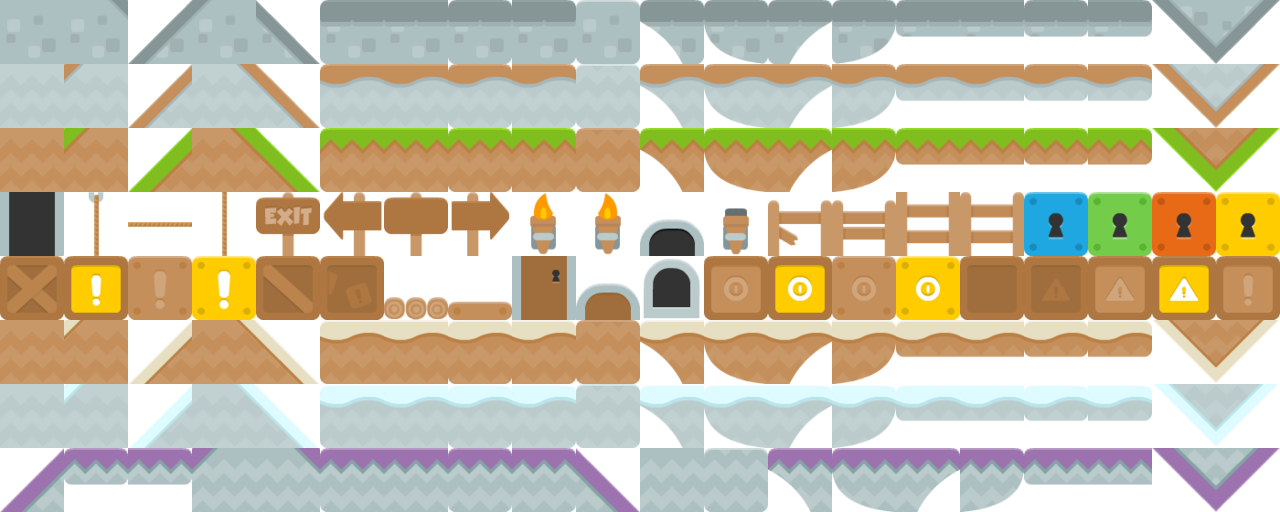
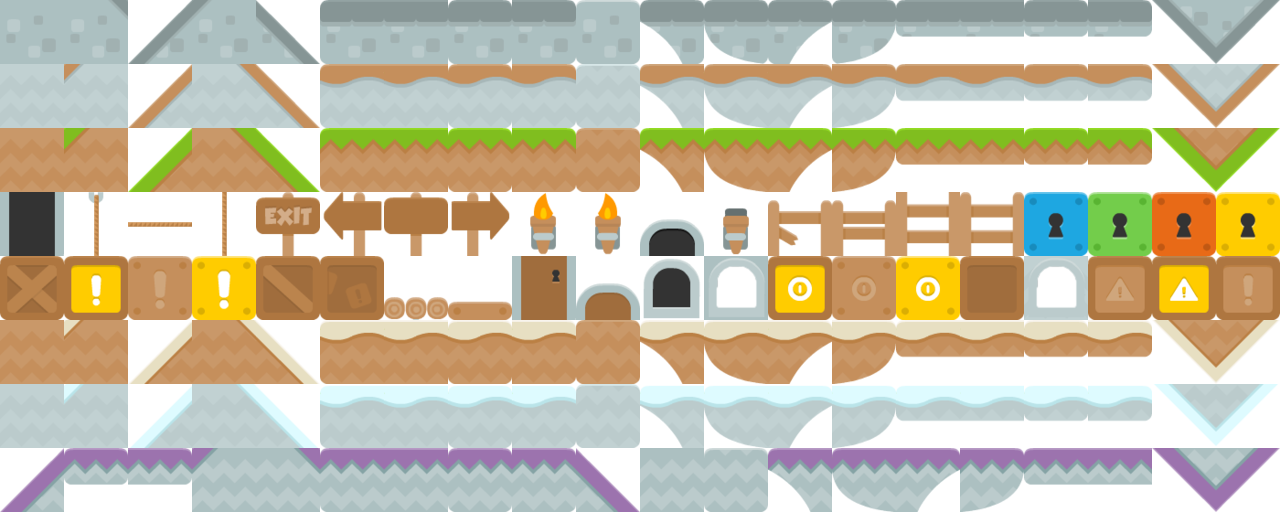
added windows, added killboxes, fixed levels, added level selection, and improved player input

Changed region(s): [[0.7812, 0.5, 0.875, 0.625], [0.5312, 0.5, 0.625, 0.625]]

diff --git a/game-client/src/playerstate.cpp b/game-client/src/playerstate.cpp
@@ -60,7 +60,7 @@ PlayerState IdleState::getType() {
     return PlayerState::Idle;
 }
 void IdleState::update( Player* player, double dt ) {
-    if ( player->direction.x != 0 && reset ) {
+    if ( player->direction.x != 0 ) {
         walkTimer += dt;
     } else if (player->direction.x == 0 ) {
         walkTimer = 0;
@@ -73,7 +73,7 @@ void IdleState::update( Player* player, double dt ) {
         player->sprite->play(player->idleAnimation);
     }
     if ( walkTimer > player->walkLength ) {
-        if ( fabs(player->direction.x) > 0.9 ) {
+        if ( fabs(player->direction.x) > 0.9 && reset ) {
             if ( player->direction.x > 0 ) {
                 player->switchState( new DashingState(player,1) );
             } else {
@@ -369,7 +369,7 @@ void RunningState::update( Player* player, double dt ) {
     } else if ( player->direction.x > 0.9 && dashingDirection == -1 && crossedNeutral ) {
         player->switchState( new TurningState(player, 1) );
     }
-    if ( (player->direction.x == 0 && player->direction.y == 0) || glm::length(player->direction) < 0.5 ) {
+    if ( (player->direction.x == 0 && player->direction.y == 0) || glm::length(player->direction) < 0.7 ) {
         crossedNeutral = true;
         walkTimer += dt;
     } else {
@@ -487,8 +487,9 @@ TurningState::TurningState( Player* player, float direction ) {
 void TurningState::init() {
     player->sprite->play( player->slideAnimation );
     player->sprite->setFrameTime(sf::seconds(0.16));
-    float d = turnDirection*player->playerSpeed*player->dashingMultiplier;
-    tweenX = tweeny::from(-d).to(0).during(player->turnAroundTime*1000).via(tweeny::easing::quadraticOut);
+    glm::vec2 vel = -toGLM(player->myBody->GetLinearVelocity());
+    tweenX = tweeny::from(vel.x).to(0).during(player->turnAroundTime*1000).via(tweeny::easing::quadraticOut);
+    tweenY = tweeny::from(vel.y).to(0).during(player->turnAroundTime*1000).via(tweeny::easing::quadraticOut);
     turnTimer = 0;
 }
 
@@ -502,7 +503,7 @@ PlayerState TurningState::getType() {
 void TurningState::update( Player* player, double dt ) {
     // If the code reaches here you should never play smash again probably
     glm::vec2 vel = toGLM(player->myBody->GetLinearVelocity());
-    player->myBody->SetLinearVelocity( b2Vec2(tweenX.step((int)(dt*1000)),vel.y) );
+    player->myBody->SetLinearVelocity( b2Vec2(tweenX.step((int)(dt*1000)),tweenY.step((int)(dt*1000))) );
     turnTimer += dt;
     if ( turnTimer > player->turnAroundTime ) {
         player->switchState( new DashingState(player,turnDirection) );

diff --git a/game-client/src/player.cpp b/game-client/src/player.cpp
@@ -3,6 +3,7 @@
 Player::Player( std::string resource, glm::vec2 pos) {
     resetToNeutral = false;
     wallJumpDirection = 0;
+    wallJumpLength = 5.f/60.f;
     hitLength = 0.2f;
     successfulTech = false;
     wallJumpTimer = 0;
@@ -11,12 +12,13 @@ Player::Player( std::string resource, glm::vec2 pos) {
     frickedUpLength = 40.f/60.f;
     jumpHelpAmount = 2.f;
     damageBoostLength = 0.25;
+    dead = false;
     damageBoostTimer = 0;
     shockLength = 0.4;
     deadZone = 0.25; // in percentage
     walkLength = 0.06; // Time in seconds to wait for stick to smash, before walking
     jumpSquatLength = 6.f/60.f; // Time in seconds to wait for button release for a short hop.
-    dashLength = 0.30; // in seconds
+    dashLength = 0.20; // in seconds
     playerWidth = .35; // in meters
     playerHeight = .35; // in meters
     airDodgeVelocity = 19;
@@ -339,12 +341,12 @@ void Player::update( double dt ) {
     if (!onGround && wallJumpTimer <= 0 && resetToNeutral ) {
         if ( direction.x > 0.9 ) {
             resetToNeutral = false;
-            wallJumpTimer = techLength;
+            wallJumpTimer = wallJumpLength;
             wallJumpDirection = 1;
         } else if ( direction.x < -0.9 ) {
             wallJumpDirection = -1;
             resetToNeutral = false;
-            wallJumpTimer = techLength;
+            wallJumpTimer = wallJumpLength;
         }
 
     }
@@ -354,7 +356,7 @@ void Player::update( double dt ) {
     if ( wallJumpTimer <= 0 ) {
         successfulWallJump = false;
     }
-    if ( ((touchingWallLeft && wallJumpDirection == 1) || (touchingWallRight && wallJumpDirection == -1)) && wallJumpTimer > 0 ) {
+    if ( ((canWallJumpRight && wallJumpDirection == 1) || (canWallJumpLeft && wallJumpDirection == -1)) && wallJumpTimer > 0 ) {
         wallJumpTimer = 0;
         successfulWallJump = true;
     }
@@ -412,6 +414,10 @@ void Player::update( double dt ) {
             world->addEntity(new Respawn(glm::vec2(spawnLoc.x, spawnLoc.y)), World::Layer::Midground);
             return;
         }
+    }
+    if ( dead ) {
+        world->addEntity(new Respawn(glm::vec2(spawnLoc.x, spawnLoc.y)), World::Layer::Midground);
+        return;
     }
     if ( sf::Joystick::isConnected( controllerID ) && controllerFound ) {
         if ( sf::Joystick::isButtonPressed(controllerID,2) || sf::Joystick::isButtonPressed(controllerID,3) ) {

diff --git a/game-client/src/killbox.cpp b/game-client/src/killbox.cpp
@@ -1,0 +1,55 @@
+#include "killbox.h"
+
+KillBox::KillBox(tmx::Object& obj){
+    pos = glm::vec2(obj.getPosition().x, obj.getPosition().y);
+
+    tmx::FloatRect size = obj.getAABB();
+    size.width = size.width / 64;
+    size.height = size.height / 64;
+    size.left = size.left / 64;
+    size.top = size.top / 64;
+
+    b2Vec2 topLeft(size.left, size.top);
+    b2Vec2 topRight(size.left + size.width, size.top);
+    b2Vec2 bottomRight(size.left + size.width, size.top + size.height);
+    b2Vec2 bottomLeft(size.left, size.top + size.height);
+
+    b2BodyDef boxDef;
+    boxDef.type = b2_staticBody;
+    boxDef.angle = 0;
+
+    b2PolygonShape shape;
+    b2Vec2 vertices[] = {
+        topLeft,
+        topRight,
+        bottomRight,
+        bottomLeft
+    };
+    shape.Set(vertices, 4);
+    b2FixtureDef fixDef;
+    fixDef.shape = &shape;
+    fixDef.density = 0;
+    fixDef.restitution = 0;
+    boxDef.position.Set(0,0);
+    body = physicalWorld->get().CreateBody( &boxDef );
+    b2Fixture* fixture = body->CreateFixture( &fixDef );
+    fixture->SetSensor(true);
+    body->SetUserData( this );
+}
+
+void KillBox::update(double dt){
+}
+
+void KillBox::onHit(Entity* collider, b2Contact* c, b2Vec2 hitnormal){
+    if(collider->getType() == Entity::Type::Player){
+        ::Player* p = static_cast< ::Player*>(collider);
+        p->dead = true;
+    }
+}
+
+void KillBox::draw(sf::RenderTarget& window){
+}
+
+Entity::Type KillBox::getType(){
+    return Entity::Type::KillBox;
+}

diff --git a/game-client/src/map.cpp b/game-client/src/map.cpp
@@ -287,16 +287,18 @@ Entity::Type Map::getType(){
 
 void Map::spawnObject( tmx::Object& obj ) {
     if ( obj.getName() == "playerSpawn" ) {
-        world->addEntity(new ::PlayerSpawn(obj), World::Layer::Background);
+        world->addEntity(new ::PlayerSpawn(obj), World::Layer::None);
     } else if( obj.getName() == "laser" ) {
-        world->addEntity( new ::Laser(obj), World::Layer::Background);
+        world->addEntity( new ::Laser(obj), World::Layer::None);
+    } else if( obj.getName() == "killbox" ) {
+        world->addEntity( new ::KillBox(obj), World::Layer::None);
     } else if( obj.getName() == "trampoline" ) {
-        world->addEntity( new ::Trampoline(obj), World::Layer::Background);
+        world->addEntity( new ::Trampoline(obj), World::Layer::None);
     } else if( obj.getName() == "spikes") {
-        world->addEntity( new ::Spikes(obj), World::Layer::Background);
+        world->addEntity( new ::Spikes(obj), World::Layer::None);
     } else if( obj.getName() == "lava") {
         world->addEntity( new ::Lava(obj), World::Layer::Lavaground);
     } else if( obj.getName() == "exit") {
-        world->addEntity( new ::Exit(obj), World::Layer::Background);
+        world->addEntity( new ::Exit(obj), World::Layer::None);
     }
 }

diff --git a/game-client/src/killbox.h b/game-client/src/killbox.h
@@ -1,0 +1,18 @@
+#ifndef LQ_KILLBOX_H_
+#define LQ_KILLBOX_H_
+
+#include "entity.h"
+#include "player.h"
+
+class KillBox : public Entity{
+public:
+    b2Body* body;
+    KillBox(tmx::Object& obj);
+    glm::vec2 pos;
+    void update(double dt);
+    void onHit(Entity* collider, b2Contact* c, b2Vec2 hitnormal);
+    void draw(sf::RenderTarget& window);
+    Entity::Type getType();
+};
+
+#endif

diff --git a/game-client/src/player.h b/game-client/src/player.h
@@ -46,11 +46,13 @@ public:
     float playerSpeed;
     float jumpHelpAmount;
     float fullHopHeight;
+    float wallJumpLength;
     float shortHopHeight;
     float landLength;
     float airControlMultiplier;
 
     // Control variables
+    bool dead;
     bool successfulWallJump;
     float wallJumpDirection;
     bool resetToNeutral;

diff --git a/game-client/src/playerstate.h b/game-client/src/playerstate.h
@@ -132,6 +132,7 @@ public:
 
 class TurningState : public GenericPlayerState {
     tweeny::tween<float> tweenX;
+    tweeny::tween<float> tweenY;
     float turnDirection;
     float turnTimer;
 public:

diff --git a/game-client/src/map.h b/game-client/src/map.h
@@ -13,6 +13,7 @@
 #include "trampoline.h"
 #include "world.h"
 #include "layer.h"
+#include "killbox.h"
 
 class Map : public Entity {
 private:

diff --git a/game-client/src/entity.h b/game-client/src/entity.h
@@ -47,6 +47,7 @@ public:
         Dust,
         Spikes,
         Lava,
+        KillBox,
         Exit,
         RespawnAnim,
         HUD,
